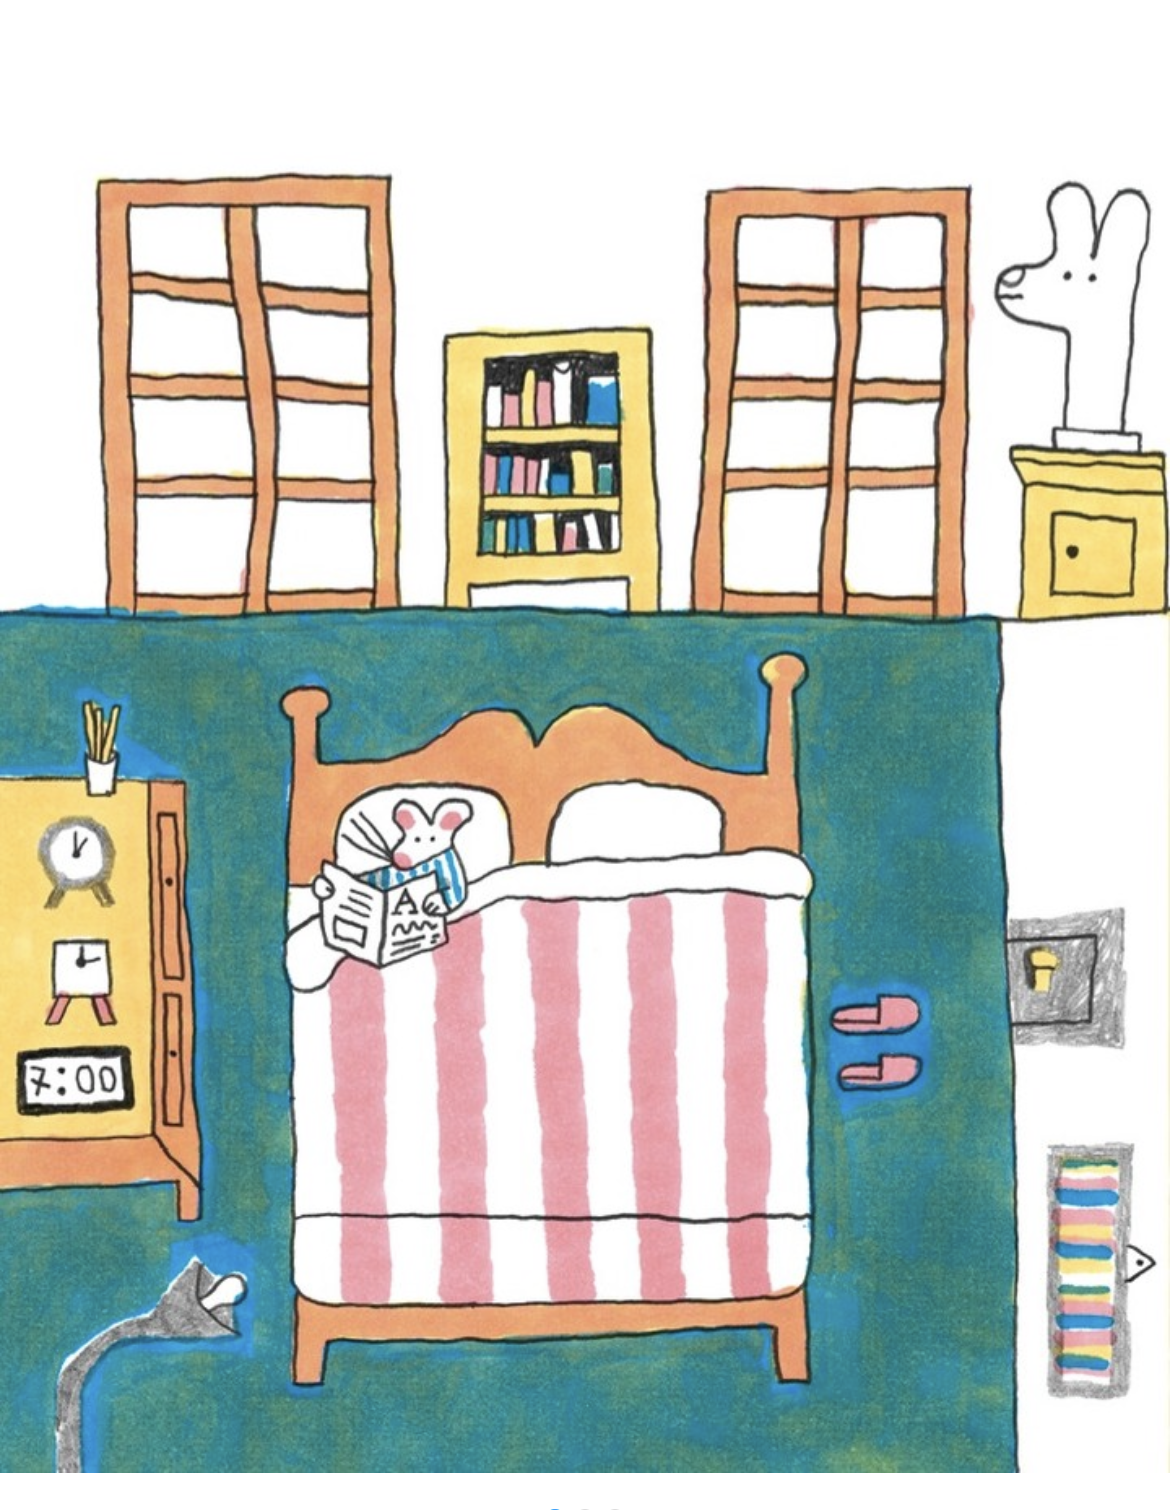
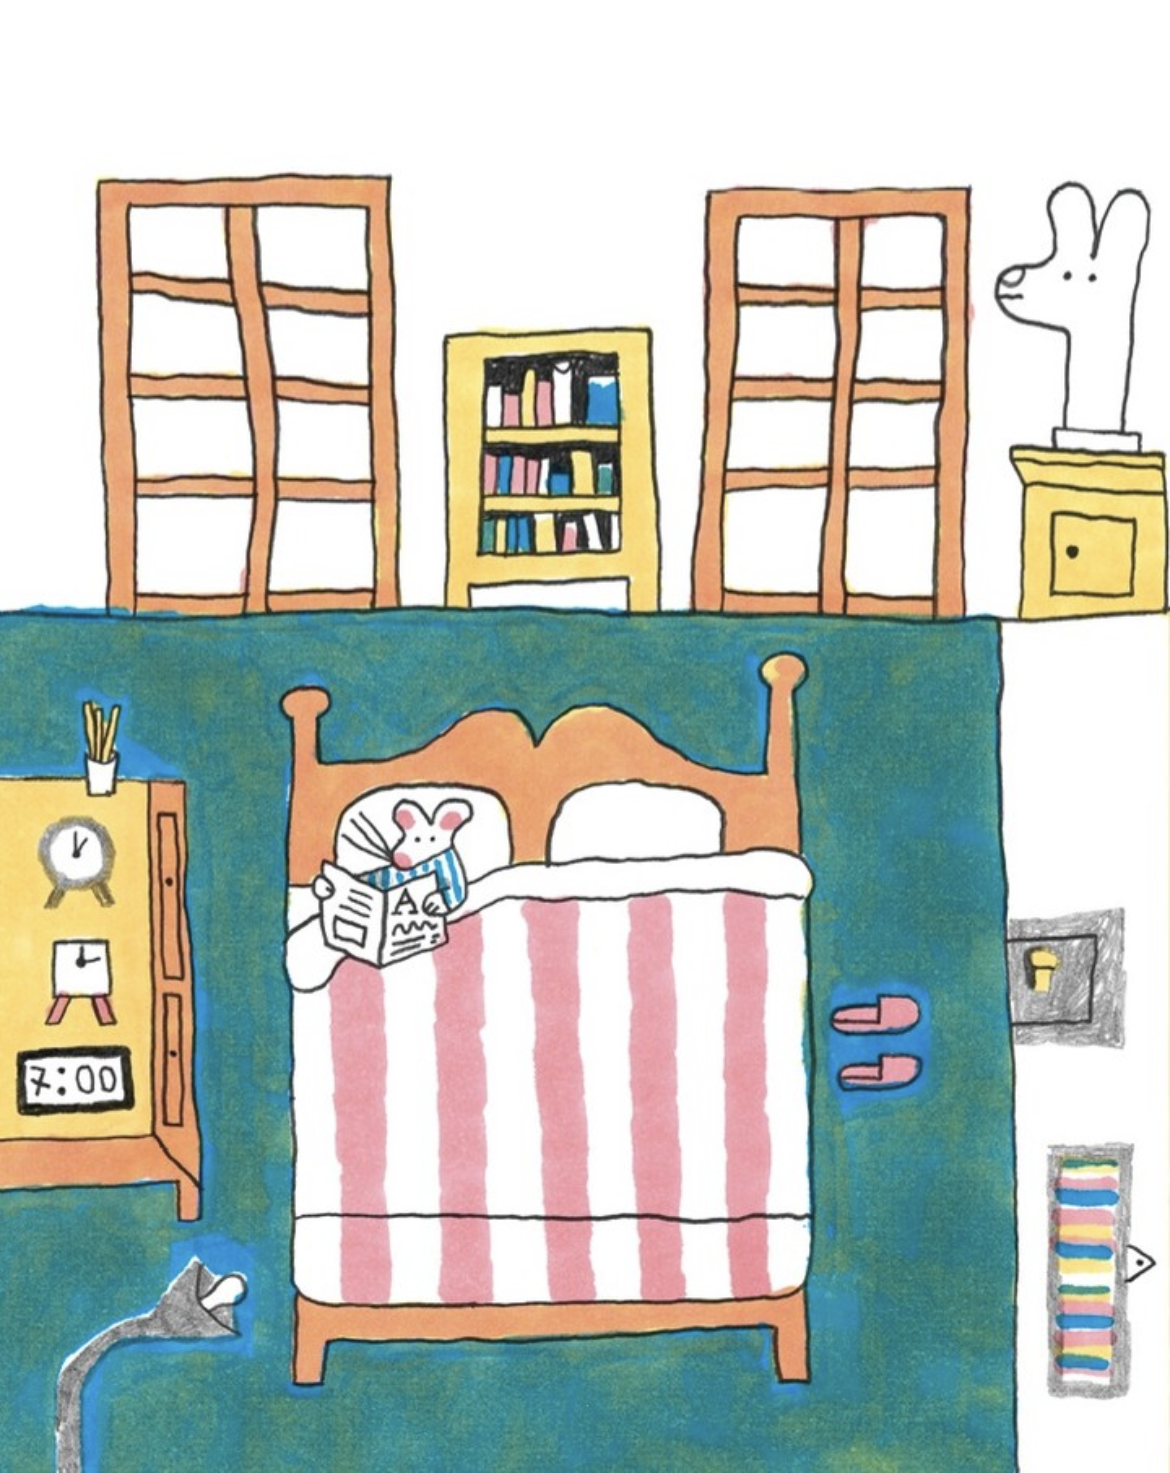
Playground: drop Hoonie tile, WTR / Scarry labels, add Pastel style (#796)
Sophie's asks (Aug 2026):

- The Hoonie linocut tile comes off the picker. The model itself is
  untouched — it still serves the Test Station and the house styles — so
  old Hoonie runs stay in the feed and keep a readable label through a
  new RETIRED map instead of falling back to the bare model id.
- "Watercolor" is now labelled WTR. The STYLES *key* stays `watercolor`,
  because that's what localStorage and ?style= deep links carry.
- "Richard Scarry" is now labelled Scarry (server-side label too).
- New "Pastel" tile: the pastel-variant-2 house look, the same recipe as
  MODELS.house['house-pastel'] — the two Witch School style refs, that
  style's written linework/palette line as the prefix, its no-text tail as
  the suffix, and the whiten flood-fill on each finished image. Those refs
  live in Storage rather than refs/, so PL_GPT_STYLES entries can now carry
  `storageRefs` (loaded through loadHouseRef) alongside `refFiles`, and
  playgroundRefs() resolves either. noCharacter, like Scarry: Sophie's
  character card is the watercolor look, the wrong reference for this line.

Also trimmed the last of the Instagram chrome off the two Scarry
references — refs 1 and 2 were iPhone screenshots whose bottom edge still
carried the top pixel row of the carousel dot indicator, so both are cut
to the artwork edge (1170x1510 -> 1170x1473). Ref 3 has no Instagram
chrome.

Claude-Session: https://claude.ai/code/session_01LFp6nXFMdjKcEG37V9bKmV

diff --git a/public/promptlab.html b/public/promptlab.html
@@ -258,26 +258,33 @@
   });
 
   // The styles on offer. The server owns the real presets (trigger word,
-  // baked suffix, steps — HOONIE gets 40 automatically); `suffix` here is the
-  // page-level tail: Watercolor keeps the "White background" convention,
-  // Hoonie sends none because its baked suffix already ends in one.
-  // The first two are Replicate LoRAs. The gptimage pair is a different
-  // engine: gpt-image-2's edits endpoint with reference images attached
-  // (`gptStyle` picks the set server-side — see PL_GPT_STYLES in server.js,
-  // which owns the whole sent prompt; the page no longer previews it, the
-  // "Sent as" line was removed Aug 2026 at Sophie's ask). LoRA scale and
-  // seed don't apply to gpt styles, so those controls are hidden; a
-  // `noCharacter` gpt style also hides the Sophie toggle (her card is the
-  // watercolor look — the wrong reference for a different style).
+  // baked suffix, steps); `suffix` here is the page-level tail — WTR keeps the
+  // "White background" convention.
+  // WTR is the one Replicate LoRA left on the picker (the Hoonie linocut tile
+  // came off Aug 2026 at Sophie's ask — the model itself is untouched and
+  // still serves the Test Station and the house styles, so old Hoonie runs
+  // stay in the feed and keep their label via RETIRED below). The three
+  // gptimage styles are a different engine: gpt-image-2's edits endpoint with
+  // reference images attached (`gptStyle` picks the set server-side — see
+  // PL_GPT_STYLES in server.js, which owns the whole sent prompt; the page no
+  // longer previews it, the "Sent as" line was removed Aug 2026 at Sophie's
+  // ask). LoRA scale and seed don't apply to gpt styles, so those controls are
+  // hidden; a `noCharacter` gpt style also hides the Sophie toggle (her card is
+  // the watercolor look — the wrong reference for a different style).
+  // The KEY `watercolor` is deliberately unchanged though its label is now WTR:
+  // it's what's saved in localStorage and what ?style= deep links send.
   var STYLES = {
-    watercolor: { model: 'sageryza/watercolordrawings', label: 'Watercolor', engine: 'replicate',
+    watercolor: { model: 'sageryza/watercolordrawings', label: 'WTR', engine: 'replicate',
                   trigger: 'wtr', suffix: 'White background', baked: '' },
-    hoonie:     { model: 'sageryza/hoonie', label: 'Hoonie linocut', engine: 'replicate',
-                  trigger: 'HOONIE', suffix: '', baked: 'linocut relief print, white background' },
     chatgpt:    { model: 'gpt-image-2', label: 'ChatGPT', engine: 'gptimage', gptStyle: 'evan' },
-    scarry:     { model: 'gpt-image-2', label: 'Richard Scarry', engine: 'gptimage', gptStyle: 'scarry',
+    scarry:     { model: 'gpt-image-2', label: 'Scarry', engine: 'gptimage', gptStyle: 'scarry',
+                  noCharacter: true },
+    pastel:     { model: 'gpt-image-2', label: 'Pastel', engine: 'gptimage', gptStyle: 'pastel',
                   noCharacter: true },
   };
+  // Styles retired from the picker still have runs in the feed — keep their
+  // labels readable instead of falling back to the bare model id.
+  var RETIRED = { 'sageryza/hoonie': 'Hoonie linocut' };
   var styleKey = localStorage.getItem('promptlab_style');
   if (!STYLES[styleKey]) styleKey = 'watercolor';
   function isGpt(k) { return STYLES[k] && STYLES[k].engine === 'gptimage'; }
@@ -316,7 +323,9 @@
   }
 
   // Arrived with a generation's settings (the gallery's "open in Playground"):
-  // ?prompt=…&style=watercolor|hoonie|chatgpt&quality=…&character=1&scale=…
+  // ?prompt=…&style=watercolor|chatgpt|scarry|pastel&quality=…&character=1&scale=…
+  // An unknown style (an old link saying `hoonie`) is simply ignored — the
+  // prompt still lands, on whatever style is current.
   // Everything lands prefilled so she can re-run it as-is or nudge one thing.
   (function () {
     var q = new URLSearchParams(location.search);
@@ -357,9 +366,10 @@
   }
   function styleLabelFor(model) {
     for (var k in STYLES) if (STYLES[k].model === model) return STYLES[k].label;
+    if (RETIRED[model]) return RETIRED[model];
     return model ? model.split('/').pop() : '';
   }
-  // Two ChatGPT-engine styles share one model id, so a gpt run's label comes
+  // The ChatGPT-engine styles share one model id, so a gpt run's label comes
   // from the doc's `gptStyle` (older docs have none → the original ChatGPT).
   function runStyleLabel(r) {
     if (r.engine === 'gptimage') {

diff --git a/server.js b/server.js
@@ -4352,11 +4352,28 @@ const PL_GPT_STYLES = {
   // character card (her card is the watercolor look — wrong reference here),
   // both Sophie's call Aug 2026.
   scarry: {
-    label: 'Richard Scarry',
+    label: 'Scarry',
     refFiles: ['richard-scarry-1.png', 'richard-scarry-2.png', 'richard-scarry-3.png'],
     prefix: 'Use only the style of the three attached style reference images and ' +
       'ignore their content — do not copy anything depicted in them.',
     suffix: 'Do not include any text in the image.',
+    noCharacter: true,
+  },
+  // "Pastel" (Aug 2026, Sophie) — the pastel-variant-2 house look, the same
+  // recipe MODELS.house['house-pastel'] renders (Witch School style refs +
+  // its written style line + the whiten pass), offered here as a Playground
+  // tile. Its refs live in STORAGE, not refs/, so they load through
+  // loadHouseRef; `storageRefs` is what marks that. NO Sophie character card:
+  // hers is the watercolor look, the wrong reference for this line.
+  pastel: {
+    label: 'Pastel',
+    storageRefs: ['witch-school/refs/style-1.png', 'witch-school/refs/style-2.png'],
+    prefix: 'Use the attached images ONLY as a STYLE reference for the linework: ' +
+      'bold confident black ink outlines, flat colors with NO gradients and minimal ' +
+      'shading, a soft pastel palette of lilac, pastel pink, mint and pale yellow, ' +
+      'on a plain white background, playful modern editorial illustration.',
+    suffix: 'Absolutely no text, no words, no letters, no numbers, no captions.',
+    whiten: true,
     noCharacter: true,
   },
 };
@@ -4364,6 +4381,14 @@ const plRefCache = {};
 function playgroundRef(file) {
   if (!plRefCache[file]) plRefCache[file] = fs.readFileSync(path.join(__dirname, 'refs', file));
   return plRefCache[file];
+}
+// A style's reference images, wherever they live: `refFiles` are banked in
+// refs/ (read once, cached), `storageRefs` are Firebase Storage paths shared
+// with the house styles (downloaded once, cached by loadHouseRef).
+async function playgroundRefs(st) {
+  const local = (st.refFiles || []).map(playgroundRef);
+  const remote = await Promise.all((st.storageRefs || []).map(loadHouseRef));
+  return local.concat(remote);
 }
 
 // Cancelled run ids (in-process — the job and the cancel route are the same
@@ -4437,7 +4462,7 @@ async function runPromptLabGptJob(docRef, cfg) {
     // Style refs first; the Sophie character card rides LAST when toggled on
     // (each style's characterLine points at it that way).
     const st = PL_GPT_STYLES[cfg.styleId] || PL_GPT_STYLES.evan;
-    const refs = st.refFiles.map(playgroundRef);
+    const refs = await playgroundRefs(st);
     if (cfg.character) refs.push(playgroundRef(PL_GPT.characterFile));
     const images = [];
     let failed = 0;
@@ -4450,7 +4475,12 @@ async function runPromptLabGptJob(docRef, cfg) {
         if (data.error) throw new Error(data.error.message || 'gpt-image-2 edit error');
         const b64 = data.data?.[0]?.b64_json;
         if (!b64) throw new Error('gpt-image-2 returned no image');
-        images.push(await saveBufferToFirebase(Buffer.from(b64, 'base64'), 'image/webp', 'promptlab'));
+        let buf = Buffer.from(b64, 'base64');
+        // The pastel line is defined on a plain white ground, so it gets the
+        // same flood-fill whiten the house style does. Best-effort: a failed
+        // whiten keeps the picture rather than losing a paid render.
+        if (st.whiten) { try { buf = await whitenBackground(buf); } catch (e) { console.warn('promptlab whiten failed:', e.message); } }
+        images.push(await saveBufferToFirebase(buf, 'image/webp', 'promptlab'));
         await docRef.update({ status: 'ready', images: images.slice() });
       } catch (err) {
         failed++;
@@ -4547,7 +4577,8 @@ app.post('/api/promptlab', async (req, res) => {
       await docRef.set({
         id: docRef.id, status: 'running', engine: 'gptimage', prompt: typed, fullPrompt,
         model: PL_GPT.id, gptStyle: styleId, quality, size: PL_GPT.size,
-        aspectRatio: PL_GPT.aspectRatio, styleRef: st.refFiles.join(','), outputs,
+        aspectRatio: PL_GPT.aspectRatio,
+        styleRef: (st.refFiles || []).concat(st.storageRefs || []).join(','), outputs,
         character, images: [], createdAt: admin.firestore.Timestamp.now(),
       });
       runPromptLabGptJob(docRef, { fullPrompt, outputs, quality, prompt: typed, character, styleId });

diff --git a/CLAUDE.md b/CLAUDE.md
@@ -371,26 +371,39 @@ lifted into a standalone tool later.
   LIST/TILES pair**, never a single icon that scrolls away (the first version
   did, and stranded her in a one-image-per-row view with no way back), and it
   sits on the **LEFT** because the autoscroll pill owns the top-right corner.
-- **Four styles.** Watercolor (`wtr`) and Hoonie linocut are Replicate LoRAs —
-  trigger word prepended, suffix appended, LoRA scale + seed + ×3 ladder.
+- **Four styles: WTR, ChatGPT, Scarry, Pastel (Aug 2026, Sophie).** **WTR**
+  (`wtr`, the watercolor LoRA — the tile is labelled WTR, but its STYLES key is
+  still `watercolor`, which is what localStorage and `?style=` deep links carry)
+  is the only Replicate LoRA on the picker: trigger word prepended, suffix
+  appended, LoRA scale + seed + ×3 ladder. **The Hoonie linocut tile was
+  removed** at the same time — the model is untouched and still serves the Test
+  Station / house styles, and old Hoonie runs keep their label in the feed via
+  `RETIRED` in promptlab.html.
   **ChatGPT** (Aug 2026, `engine:'gptimage'`) is a different engine:
   gpt-image-2's **edits** endpoint with Sophie's scanned ink-and-watercolour
   page attached as a pure STYLE reference (`refs/evan-film-style.png` =
   "datescan0013", the same file the Evan film uses), **quality medium**,
   **1024x1536**. LoRA scale / seed / ×3 are hidden for it — it has no
-  equivalents. **"Richard Scarry"** (Aug 2026) is a second gpt-image-2 style:
-  same recipe, but the attached style references are THREE of Sophie's saved
-  busy-animal picture-book pages (`refs/richard-scarry-1..3.png`, all three
-  attach); its prefix has NO colors line (that belonged to the watercolor
-  reference) and it is `noCharacter` — the Sophie toggle is hidden and the
-  server refuses the card even if sent, because her character card is the
-  watercolor look. Both gpt styles append a `suffix` at the VERY END of the
-  sent prompt, after her words: "Do not include any text in the image."
+  equivalents. **"Scarry"** (Aug 2026, shortened from "Richard Scarry") is a
+  second gpt-image-2 style: same recipe, but the attached style references are
+  THREE of Sophie's saved busy-animal picture-book pages
+  (`refs/richard-scarry-1..3.png`, all three attach); its prefix has NO colors
+  line (that belonged to the watercolor reference) and it is `noCharacter` —
+  the Sophie toggle is hidden and the server refuses the card even if sent,
+  because her character card is the watercolor look. **"Pastel"** (Aug 2026) is
+  the third: the pastel-variant-2 house look, the same recipe as
+  `MODELS.house['house-pastel']` — the two Witch School style refs (which live
+  in **Storage**, `witch-school/refs/style-*.png`, loaded via `loadHouseRef`,
+  not in `refs/`), that style's written linework/palette line as the prefix, and
+  the `whiten` flood-fill pass on every finished image. Also `noCharacter`.
+  Every gpt style appends a `suffix` at the VERY END of the sent prompt, after
+  her words (the no-text rule; Pastel's is the house style's longer wording).
   ChatGPT-engine styles live in `PL_GPT_STYLES` in server.js (keyed `evan` /
-  `scarry`; the page sends `style`, absent/unknown → `evan` so old pages keep
-  working) — adding another different-reference style = drop the image(s) in
-  `refs/`, add a `PL_GPT_STYLES` entry + a one-line `STYLES` entry in
-  promptlab.html (the page holds NO prompt copies anymore — see below).
+  `scarry` / `pastel`; the page sends `style`, absent/unknown → `evan` so old
+  pages keep working) — adding another different-reference style = drop the
+  image(s) in `refs/` (or point `storageRefs` at Storage), add a
+  `PL_GPT_STYLES` entry + a one-line `STYLES` entry in promptlab.html (the page
+  holds NO prompt copies anymore — see below).
 - **Its prompt is baked in server-side** (`PL_GPT_STYLES`) and her typed words
   sit between the style's prefix and its no-text suffix verbatim — no trigger
   word, no trailing-period trim. **The "Sent as" preview line is GONE (Aug
